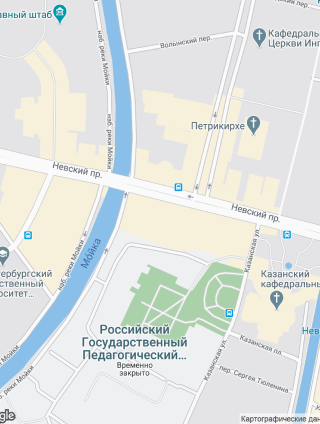
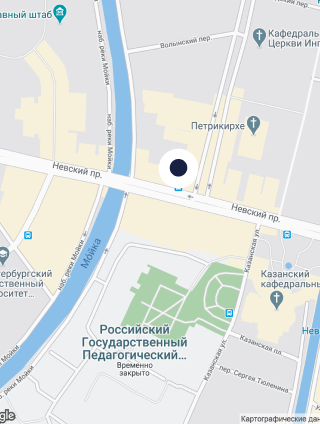
[module8-task1] index.html: показывать статические карты при отключенном js

Changed region(s): [[0.5, 0.3373, 0.625, 0.4599]]

diff --git a/source/index.html b/source/index.html
@@ -752,7 +752,7 @@
         </ul>
       </div>
     </div>
-    <address>
+    <address class="address-container">
       <div class="address">
         <div class="wrapper address__wrapper">
           <p class="address__text">
@@ -770,12 +770,27 @@
         </div>
       </div>
       <iframe
-        class="address__map"
+        class="address__map hidden address__map--iframe"
         src="https://www.google.com/maps/embed?pb=!1m18!1m12!1m3!1d1998.6037999040354!2d30.322010416394033!3d59.938716271971415!2m3!1f0!2f0!3f0!3m2!1i1024!2i768!4f13.1!3m3!1m2!1s0x4696310fca5ba729%3A0xea9c53d4493c879f!2sBolshaya+Konyushennaya+ul.%2C+19%2C+Sankt-Peterburg%2C+Russia%2C+191186!5e0!3m2!1sen!2s!4v1441888483426"
         width="320"
         height="424"
         title="Офис компании."
       ></iframe>
+      <picture class="address__map address__map--no-js">
+        <source
+          media="(min-width: 1440px)"
+          srcset="img/backgrounds/background-map-desktop.png, img/backgrounds/background-map-desktop@2x.png 2x"
+        >
+        <source
+          media="(min-width: 768px)"
+          srcset="img/backgrounds/background-map-tablet.png, img/backgrounds/background-map-tablet@2x.png 2x"
+        >
+        <img
+          class="address__map-image"
+          src="img/backgrounds/background-map-mobile.png"
+          srcset="img/backgrounds/background-map-mobile@2x.png 2x"
+          alt="Расположение офиса.">
+      </picture>
       <span class="address__locator"></span>
     </address>
   </section>

diff --git a/source/less/components/index/address.less b/source/less/components/index/address.less
@@ -139,13 +139,14 @@
 
 .address__map {
   width: 100%;
+  height: 424px;
   box-sizing: border-box;
+  display: block;
 
   .ladder__margin-top(@block-overlap-mobile);
 
   position: relative;
   z-index: @z-index-map;
-
 
   @media (min-width: @tablet-width) {
     .ladder__margin-top(@block-overlap-tablet);
@@ -154,6 +155,20 @@
 
   @media (min-width: @desktop-width) {
     .ladder__margin-top(@block-overlap-desktop);
+    height: 584px;
+  }
+}
+
+.address__map-image {
+  width: 100%;
+  object-fit: cover;
+  height: 424px;
+
+  @media (min-width: @tablet-width) {
+    height: 581px;
+  }
+
+  @media (min-width: @desktop-width) {
     height: 584px;
   }
 }

diff --git a/source/js/app.js b/source/js/app.js
@@ -166,4 +166,11 @@ window.onload = () => {
   const menuContentPopup = document.getElementsByClassName("menu-content-popup")[0]
   menuContentPopup.classList.remove("menu-content-popup--nojs")
   menuContentPopup.classList.add("hidden")
+
+  const mapIframe = document.getElementsByClassName("address__map--iframe")[0]
+  mapIframe.classList.remove("hidden")
+
+  const mapPicture = document.getElementsByClassName("address__map--no-js")[0]
+  mapPicture.classList.remove("address__map--no-js")
+  mapPicture.classList.add("hidden")
 }

diff --git a/source/less/style.less b/source/less/style.less
@@ -41,6 +41,7 @@
 @import url("components/index/contacts");
 @import url("components/index/address");
 @import url("components/index/sign-in");
+@import url("components/index/address-container");
 // catalog.html
 @import url("components/catalog/filter");
 @import url("components/catalog/filter-popup");

diff --git a/source/less/components/index/address-container.less b/source/less/components/index/address-container.less
@@ -1,0 +1,3 @@
+.address-container {
+  text-align: center;
+}
